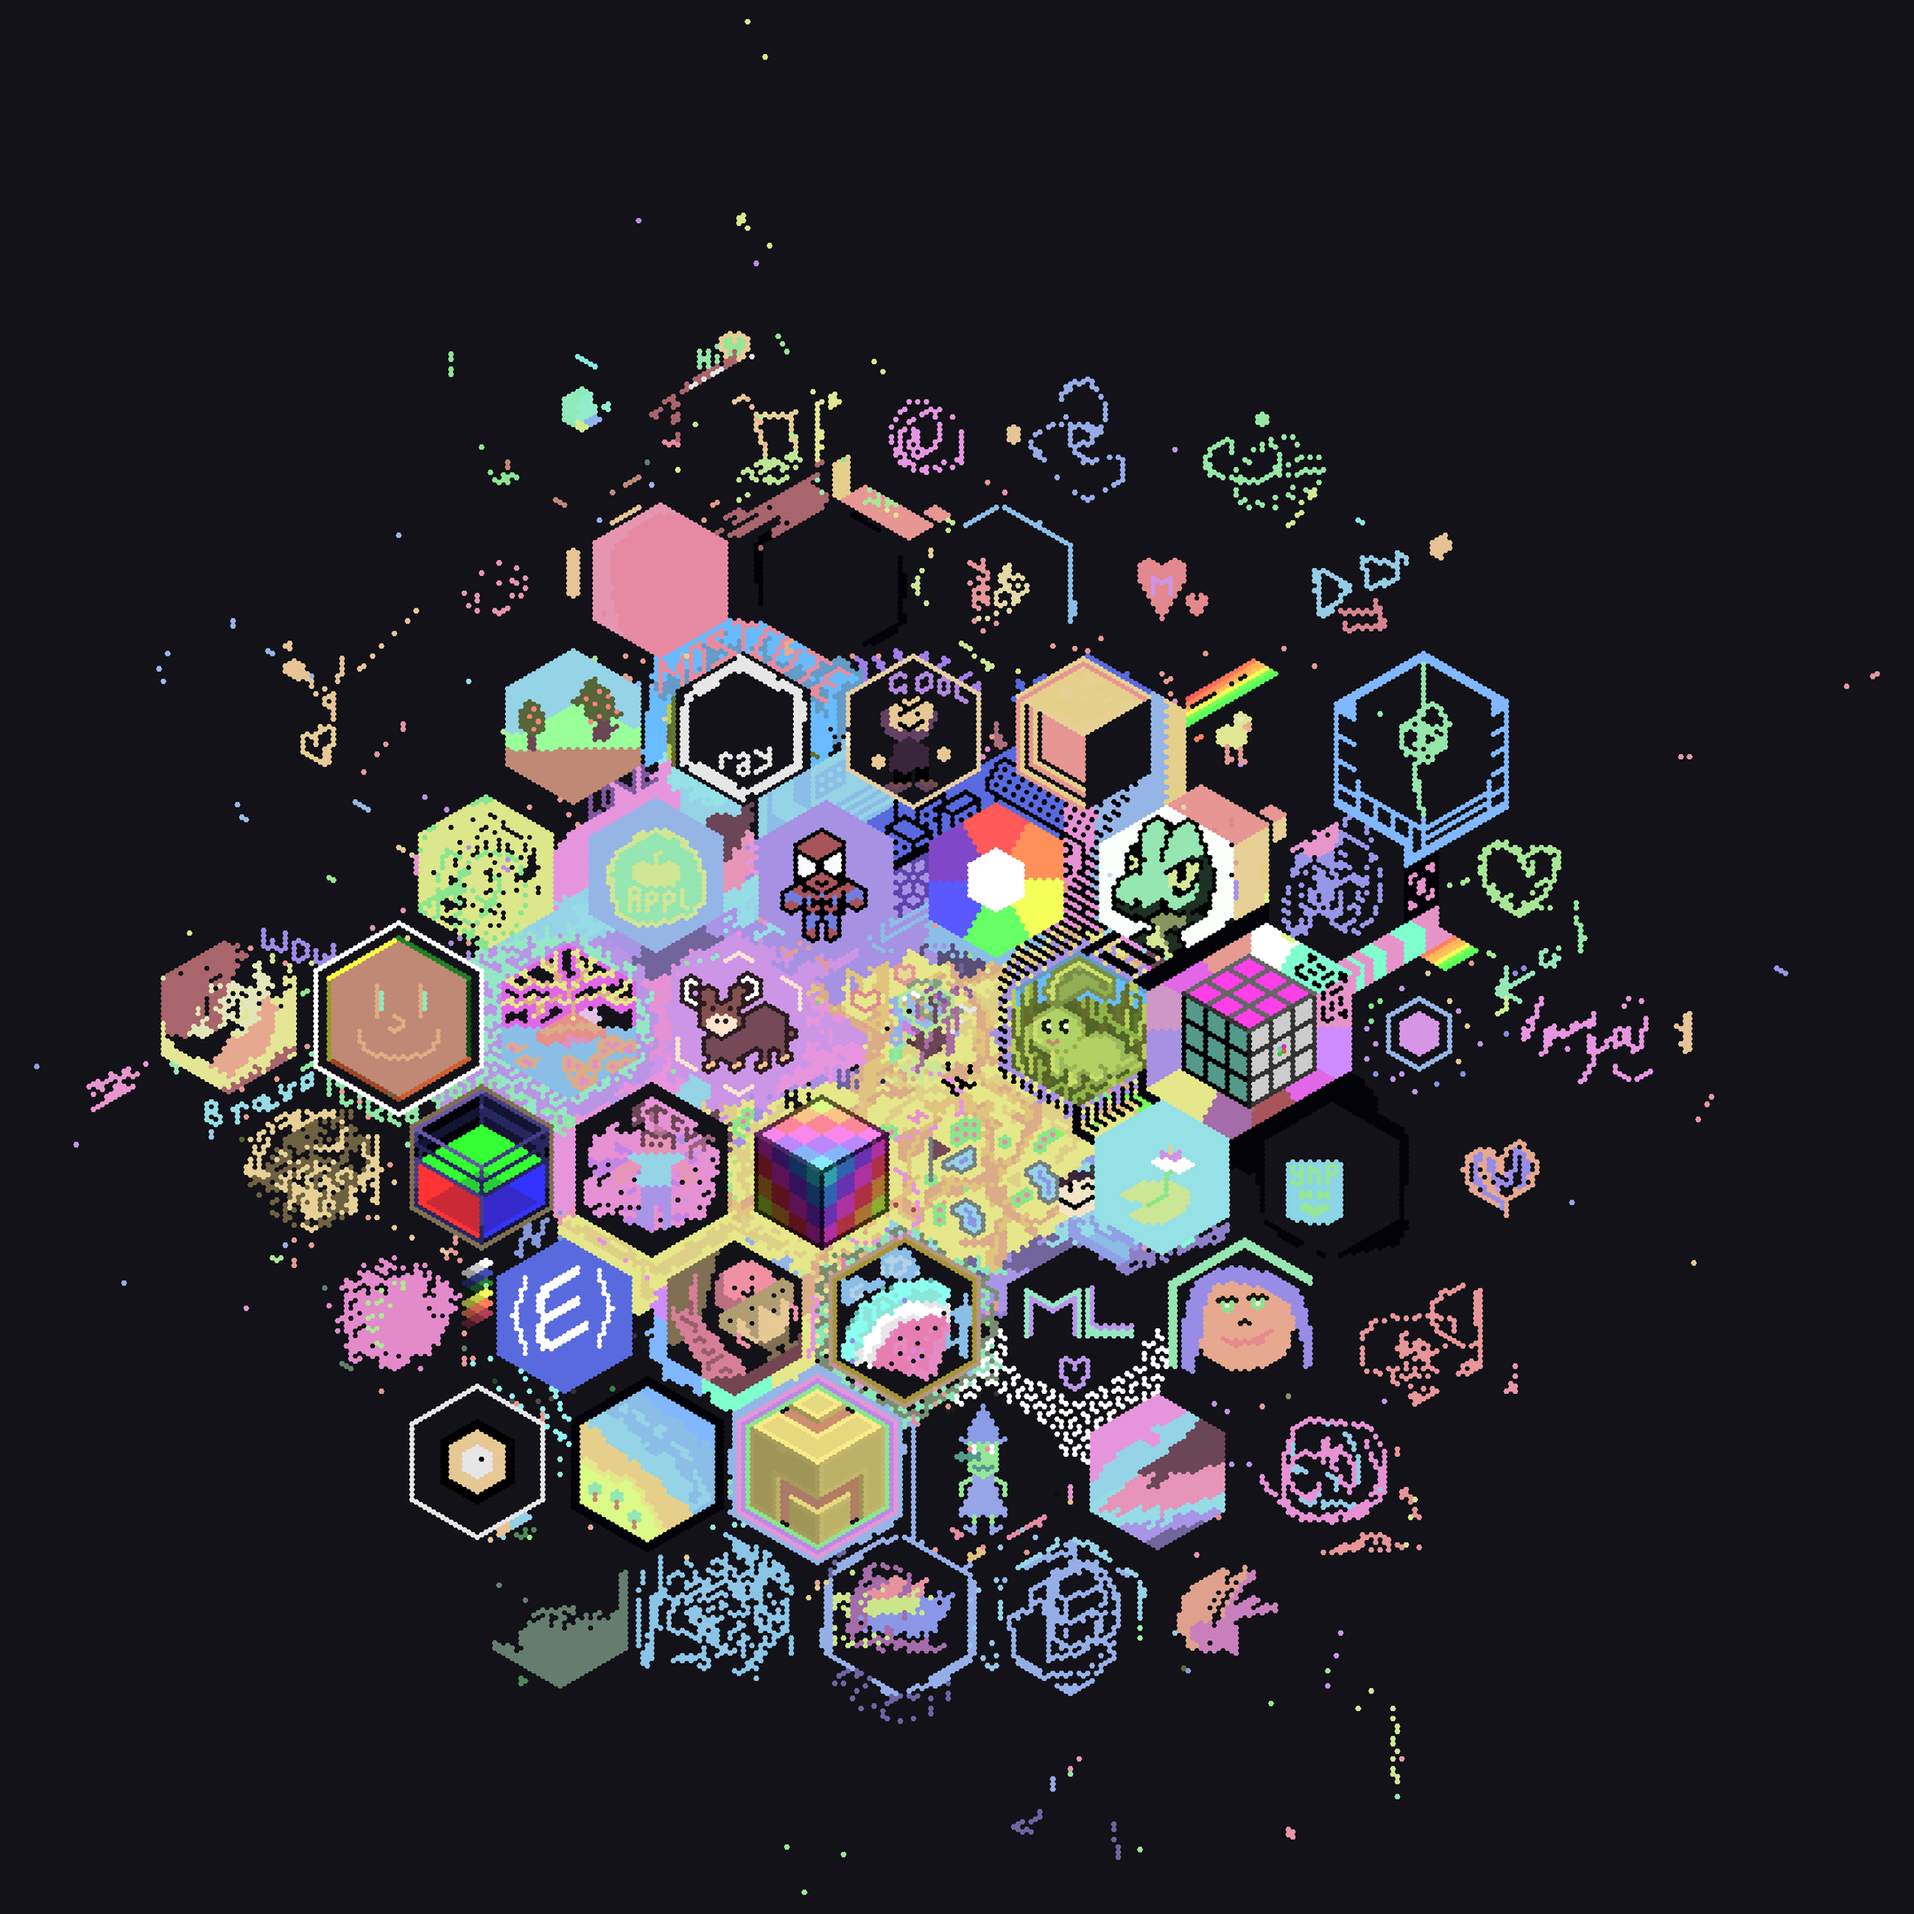
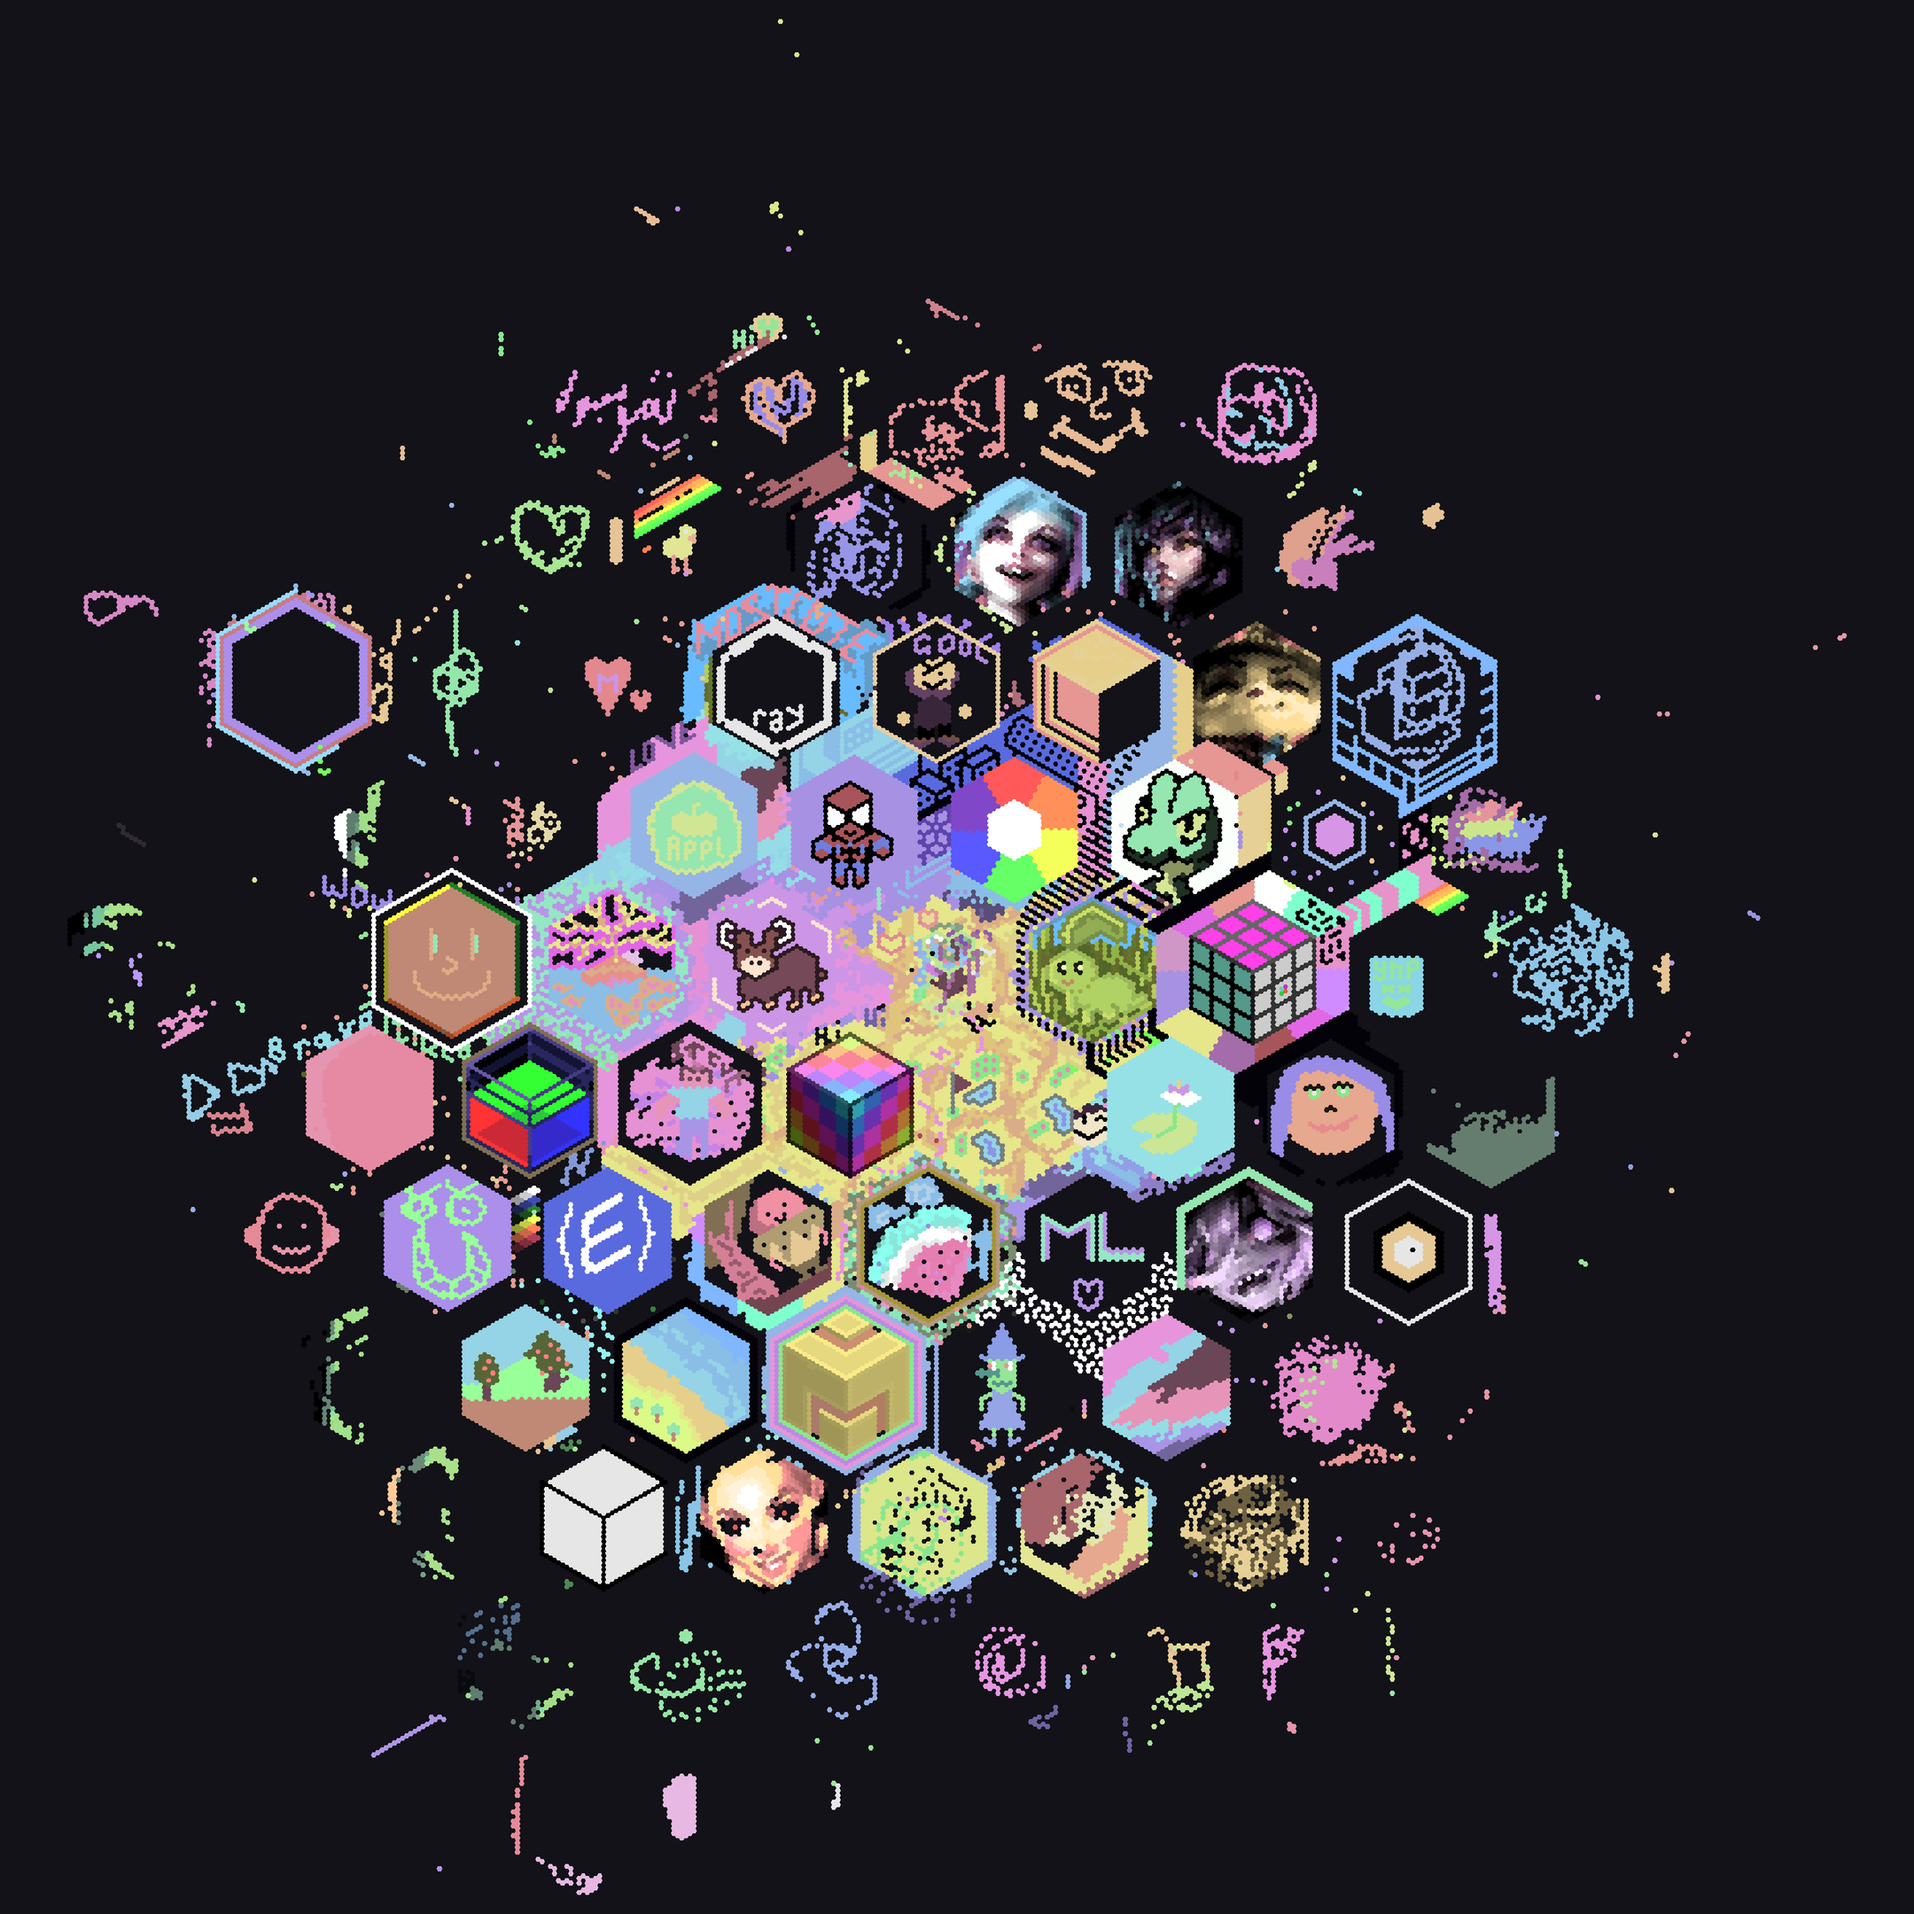
fix(title): actually run the re-bake the backdrop depends on
The title screen draws a baked picture of the world, and islands change slot
on every re-rank, so the bake is wrong within minutes unless something keeps
re-rendering it. rebake_on_rerank.sh was written for that and documented
itself as running from a one-minute timer — but no timer or cron was ever
installed on the box, and render_map.py's only dependency was missing there
too, so it had never run once. The backdrop had been frozen since the commit
that introduced it.

That is visible precisely where it was reported, "the islands are not at the
same place when zoomed in and out": the intro crossfades the baked image into
live cells between zoom 4 and 8, so a stale layout reads as islands shifting
under you. A probe render confirmed the drift — the world pose had moved from
(16.50, -23.82) at zoom 1.094 to (12.00, -3.90) at zoom 1.030.

Ship the units alongside the script instead of leaving their existence
implicit in a comment, with a README covering the per-host install (including
the python3-pil dependency) and why it is not optional. Refresh the bake in
the same commit, since the tracked copy is the fallback compiled into the
next build.

diff --git a/tools/map-image/README.md b/tools/map-image/README.md
@@ -1,0 +1,56 @@
+# Title-map bake
+
+`render_map.py` renders the painted world to `title-map.png` plus a
+`title-map-view.txt` recording the camera pose and newest-paint timestamp it
+was baked at. The title screen draws that PNG instead of rasterising ~35k
+hexes a frame; the client fetches a fresh pair at runtime (see
+`hexelLoadTitleMap` in `client/web/game.html`), so a re-bake reaches players
+on their next page load with no rebuild.
+
+`rebake_on_rerank.sh` re-renders only when the set of `(island id, slot)`
+pairs changes — re-ranks, island creation, reaps — and no-ops on ordinary
+painting.
+
+## Why this needs a timer
+
+Islands change slot on every leaderboard re-rank (`RERANK_PERIOD_SECS = 300`),
+so an un-refreshed bake is wrong within minutes: the backdrop shows islands
+where they used to be, which is plainly visible as the intro crossfades from
+the baked image into the live map (`title_map::blend_alpha`, zoom 4 -> 8).
+
+That is exactly what happened between 2026-07-26 and 2026-07-28. The watcher
+script shipped, but nothing on the box ever ran it — no timer was installed
+and `python3-pil` was missing, so the bake stayed frozen at the commit that
+introduced it and drifted two days out of date.
+
+## Install (per host)
+
+```sh
+sudo apt-get install -y python3-pil          # render_map.py's only dependency
+cp tools/map-image/systemd/hexel-map-rebake.* ~/.config/systemd/user/
+systemctl --user daemon-reload
+systemctl --user enable --now hexel-map-rebake.timer
+loginctl enable-linger "$USER"               # so it ticks with nobody logged in
+```
+
+Verify:
+
+```sh
+systemctl --user list-timers hexel-map-rebake.timer
+curl -s https://hexel.mister-esman.uk/title-map-view.txt   # 4th field = newest paint, in micros
+```
+
+Both unit files hardcode `/home/ubuntu/raylib-gamejam-2026` and
+`/home/ubuntu/.local/bin` (where `spacetime` lives, and which a systemd unit
+does not inherit from a login shell) — adjust if the checkout moves.
+
+## By hand
+
+```sh
+./render_map.py hexel ../../client/assets/title-map   # render only
+./tools/map-image/rebake_on_rerank.sh                 # render if the layout changed, then stage both copies
+```
+
+`client/assets/*` is the tracked, compiled-in fallback that ships inside the
+wasm; `client/web/*` is the served copy the running client fetches, and is
+gitignored precisely because the watcher rewrites it every few minutes.

diff --git a/status.md b/status.md
@@ -2897,3 +2897,35 @@ account.** Author report, quoted below.
   eyeball on New account -> genuinely new id/name/island, the old island
   still on the map and re-importable from its copied token, and the native
   re-exec handing the window over cleanly.
+
+---
+
+**Batch (2026-07-27, chat session): the title backdrop is un-frozen.** Author
+report, quoted below.
+
+- **"the image is not up to date, the islands are not at the same place when
+  zoomed in and out"** — the stale-backdrop bug that commit 2cf8d9b was
+  written to fix had simply never been switched on. `rebake_on_rerank.sh`
+  documented itself as "run from a systemd user timer every minute", but no
+  timer or cron existed on the box and `render_map.py`'s only dependency
+  (`python3-pil`) was not installed, so the bake froze at the commit that
+  introduced it. Two days of drift, visible exactly where the author saw it:
+  `title_map::blend_alpha` crossfades the baked image into live cells between
+  zoom 4 and 8, so a stale layout reads as islands jumping as you zoom.
+  Confirmed by rendering a probe bake — pose had moved from
+  `(16.50, -23.82) zoom 1.094` to `(12.00, -3.90) zoom 1.030`.
+  - Installed `python3-pil`, re-baked (assets + served copy), and installed
+    the missing units (`tools/map-image/systemd/hexel-map-rebake.{service,
+    timer}`, now tracked, plus `tools/map-image/README.md` with the per-host
+    install and the reason it is not optional). Timer verified firing every
+    minute, service exit 0.
+  - The runtime fetch did its job once the files changed: the live site
+    served the fresh pose with no rebuild needed (VERIFIED by curl).
+- Note for anyone with a checkout on the box: `client/assets/title-map.*` is
+  tracked AND rewritten by the watcher, so `git status` is now dirty within
+  minutes of any commit of it. That is the design (the tracked copy is the
+  compiled-in fallback); it just never showed before, because the watcher
+  never ran.
+- NOT hand-tested in a GUI/browser (author drives runtime testing): needs an
+  eyeball on the intro zoom no longer showing islands shifting as the bake
+  crossfades into the live map.
